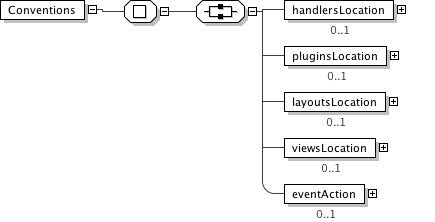
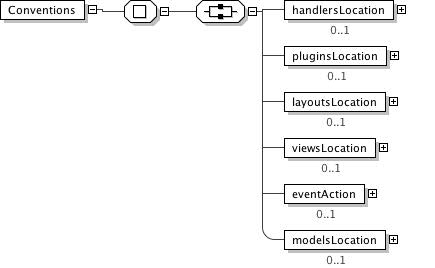
docs updates
git-svn-id: http://subversion.assembla.com/svn/coldbox/coldbox/trunk@1895 aa9c7f36-201a-0410-b936-d08bb24d9cb0

Changed region(s): [[0.0, 0.0, 0.9563, 1.0]]

diff --git a/documents/SchemaDocs/index.html b/documents/SchemaDocs/index.html
@@ -3,7 +3,7 @@
   PUBLIC "-//W3C//DTD XHTML 1.0 Strict//EN" "http://www.w3.org/TR/xhtml1/DTD/xhtml1-strict.dtd">
 <html xmlns="http://www.w3.org/1999/xhtml">
    <head>
-      <title>Documentation for ColdBox 2.6.2 Configuration - config.xsd</title>
+      <title>Documentation for ColdBox 2.6.2 Config - config.xsd</title>
       <meta http-equiv="Content-Type" content="text/xml; charset=UTF-8"/>
       <style type="text/css">
 /* ~~~~~~~~~~~~~~~~~~~~~~~~~~~~~~~~~~~~~~~~~~~~~~~~~~~~~~ */
@@ -725,7 +725,7 @@ function viewDocumentation(compDesc, compName, docTextArray) {
    </head>
    <body>
       <h1>
-         <a name="top">Documentation for ColdBox 2.6.2 Configuration</a>
+         <a name="top">Documentation for ColdBox 2.6.2 Config</a>
       </h1>
       <div style="float: right;">
          <div id="printerControls" style="display:none;">
@@ -1721,6 +1721,10 @@ if (gc != null) {
                      <a href="#ns_xs" title="Find out namespace of 'xs' prefix">xs</a>:string</span> &lt;/eventAction&gt; <span class="occurs">[0..1]</span> 
                   <p class="documentation">'The default event action if not specified.'</p>
                </div>
+               <div style="margin-left: 3em">&lt;modelsLocation&gt; <span class="type">
+                     <a href="#ns_xs" title="Find out namespace of 'xs' prefix">xs</a>:string</span> &lt;/modelsLocation&gt; <span class="occurs">[0..1]</span> 
+                  <p class="documentation">'The default location of your models.'</p>
+               </div>
                <span class="group" style="margin-left: 1.5em">End All</span>
                <br/>&lt;/Conventions&gt;</div>
          </div>
@@ -1780,6 +1784,11 @@ if (gc != null) {
                         </span>" <span class="scTag">maxOccurs</span>="<span class="scContent">1</span>" <span class="scTag">minOccurs</span>="<span class="scContent">0</span>"/&gt;</div>
                      <div style="margin-left: 1.5em">&lt;<span class="scTag">xs:element</span> 
                         <span class="scTag">name</span>="<span class="scContent">eventAction</span>" <span class="scTag">type</span>="<span class="scContent">
+                           <span class="type">
+                              <a href="#ns_xs" title="Find out namespace of 'xs' prefix">xs</a>:string</span>
+                        </span>" <span class="scTag">maxOccurs</span>="<span class="scContent">1</span>" <span class="scTag">minOccurs</span>="<span class="scContent">0</span>"/&gt;</div>
+                     <div style="margin-left: 1.5em">&lt;<span class="scTag">xs:element</span> 
+                        <span class="scTag">name</span>="<span class="scContent">modelsLocation</span>" <span class="scTag">type</span>="<span class="scContent">
                            <span class="type">
                               <a href="#ns_xs" title="Find out namespace of 'xs' prefix">xs</a>:string</span>
                         </span>" <span class="scTag">maxOccurs</span>="<span class="scContent">1</span>" <span class="scTag">minOccurs</span>="<span class="scContent">0</span>"/&gt;</div>&lt;/<span class="scTag">xs:all</span>&gt;</div>&lt;/<span class="scTag">xs:complexType</span>&gt;</div>&lt;/<span class="scTag">xs:element</span>&gt;</div>
